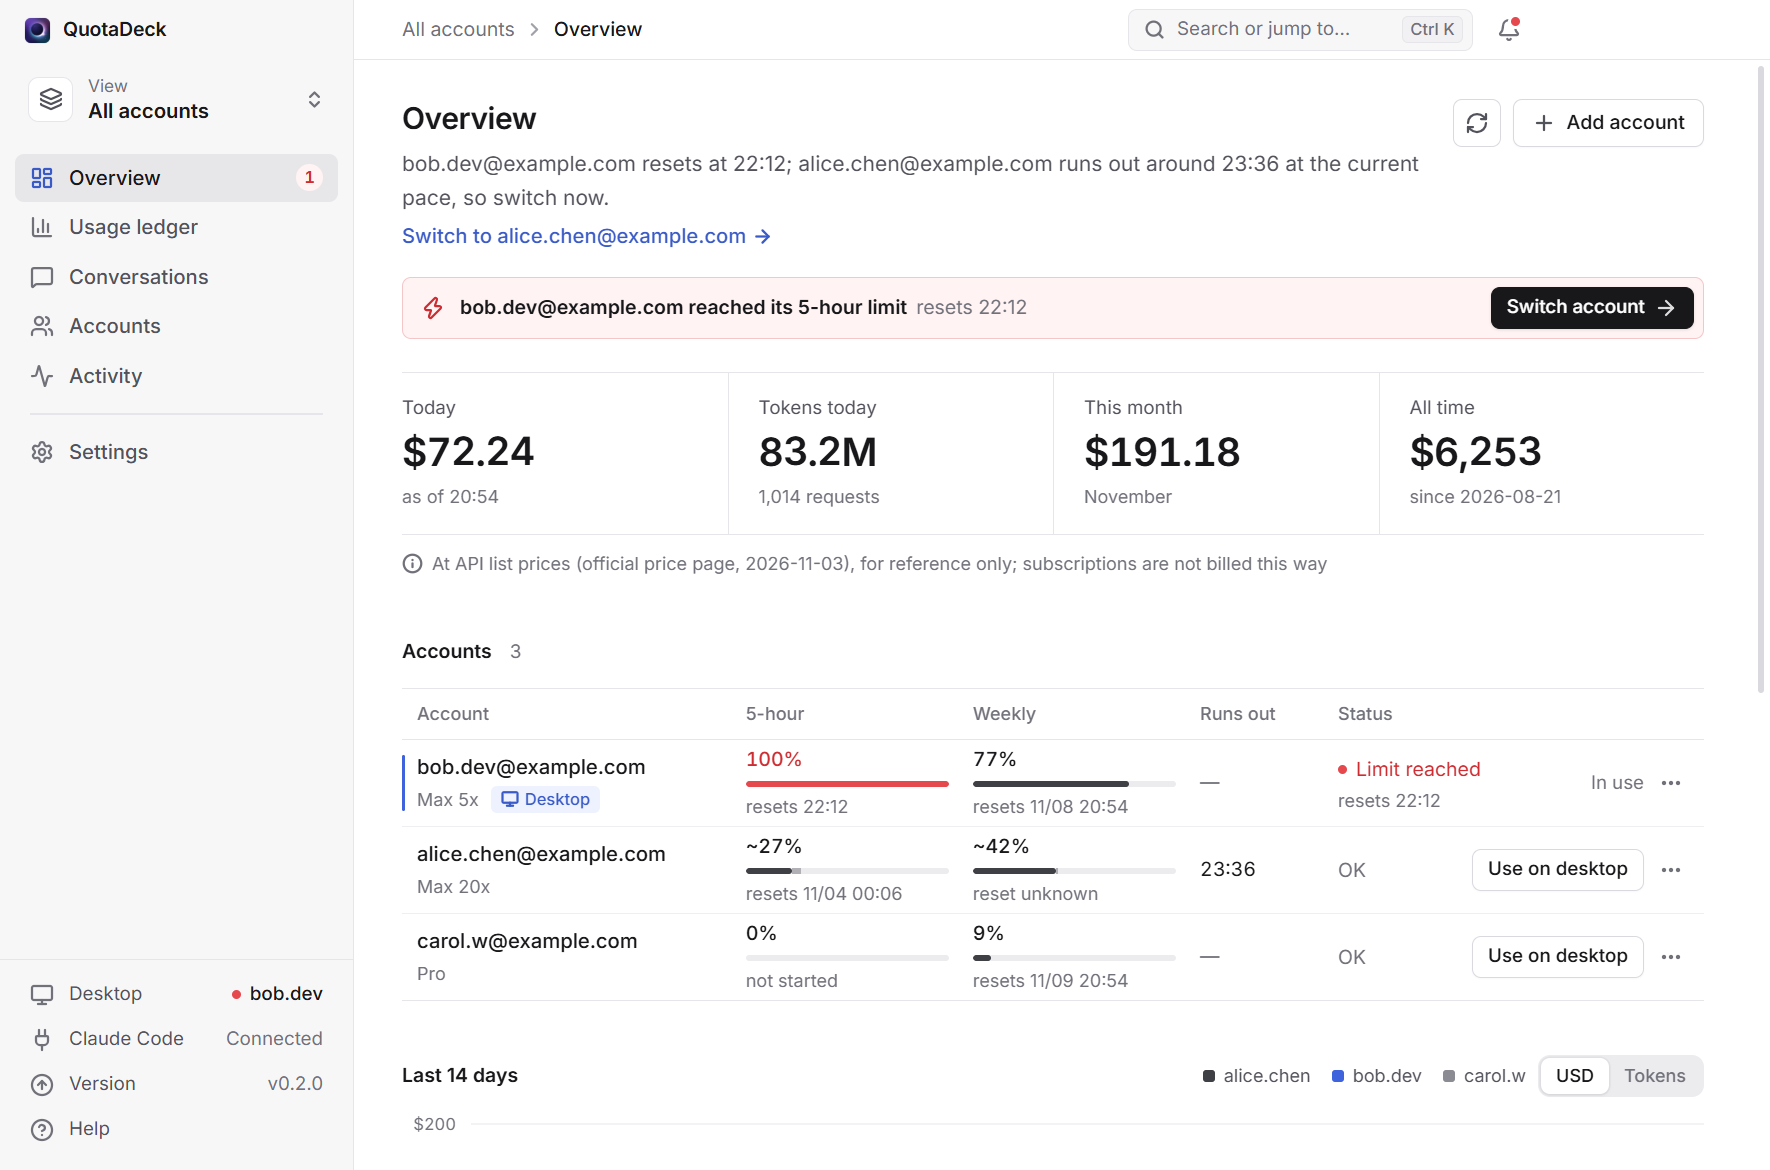
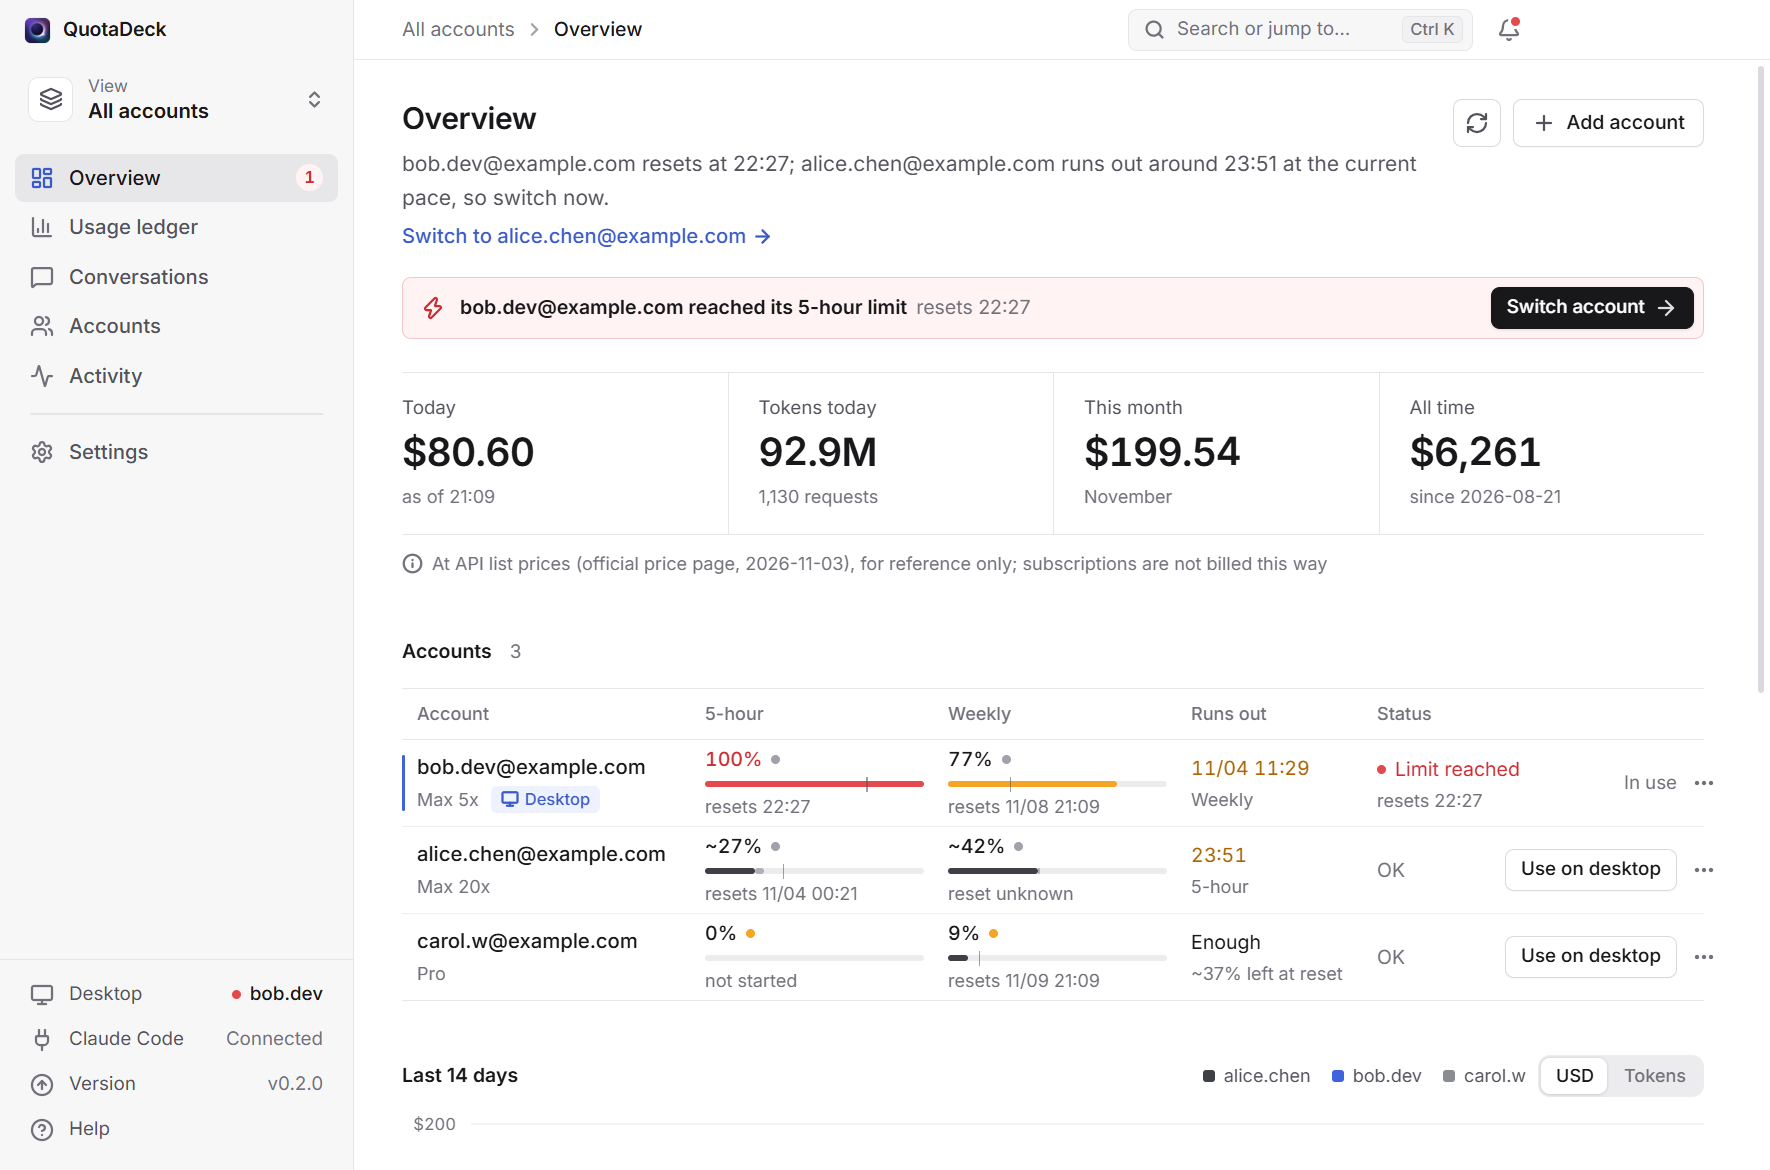
Calmer account table: three lines per meter, a source dot with the details on hover, pace in the run-out column; full detail on the accounts page

diff --git a/src/renderer/src/components/AccountTable.tsx b/src/renderer/src/components/AccountTable.tsx
@@ -8,7 +8,7 @@ import { displayName, pctLevel, planText, shownPct, statusKey } from '../util'
 import { IconFolder, IconLogin, IconMonitor, IconMore, IconPencil, IconTerminal, IconTrash } from './icons'
 import { Menu } from './Menu'
 
-const COLS = 'minmax(180px, 1.45fr) minmax(156px, 1.35fr) minmax(156px, 1.35fr) 70px 90px 128px'
+const COLS = 'minmax(176px, 1.4fr) minmax(146px, 1.25fr) minmax(146px, 1.25fr) 108px 88px 128px'
 
 function estimateTip(est: UsageEstimate | undefined, usage: UsageSnapshot | undefined, recorded: UsageWindow | undefined, t: T, clock: (ts: number) => string): string | undefined {
   if (!est) return undefined
@@ -36,12 +36,10 @@ export function sourceInfo(a: AccountView, estimated: boolean, t: T, lang: Langu
   return { text: `${src} · ${ago}`, stale, tip: stale ? t('srcStaleTip', { src, ago }) : `${src} · ${ago}` }
 }
 
-/**
- * One window of one account: the percent with its source, a thin bar with a tick at the time already gone in the
- * window, the reset time, and where the current pace leads. `compact` keeps the percent, a source dot and the bar.
- */
-export function MeterCell({ account: a, kind, tip, compact, label }: { account: AccountView; kind: 'fh' | 'sd'; tip?: string; compact?: boolean; label?: string }) {
-  const { t, lang, tz, now, state } = useApp()
+type Kind = 'fh' | 'sd'
+
+/** Everything one window of one account shows: the number, the bar, the reset, the time gone and where the pace leads. */
+function meterModel(a: AccountView, kind: Kind, t: T, lang: Language, tz: string, now: number, warnAt: number) {
   const w = kind === 'fh' ? a.usage?.fiveHour : a.usage?.sevenDay
   const estimatePct = kind === 'fh' ? a.estimate?.fiveHour : a.estimate?.sevenDay
   const estimateResetsAt = kind === 'fh' ? a.estimate?.fiveHourResetsAt : undefined
@@ -60,49 +58,86 @@ export function MeterCell({ account: a, kind, tip, compact, label }: { account: 
   const start = reset ? reset - span : undefined
   const gone = start !== undefined ? Math.min(1, Math.max(0, (now - start) / span)) : undefined
   const ahead = pct !== undefined && gone !== undefined && pct < 100 && pct - gone * 100 > 10
-  const level = pctLevel(w?.pct ?? pct, state.settings.warnAt)
+  const level = pctLevel(w?.pct ?? pct, warnAt)
   const cls = level === 'bad' ? ' bad' : level === 'warn' || ahead ? ' warn' : ''
   const extra = shown.estimated && pct !== undefined ? Math.max(0, pct - recorded) : 0
 
   // Where this pace leads; nothing is concluded in the first tenth of the window.
-  let pace: { text: string; warn: boolean } | undefined
+  let fullAt: number | undefined
+  let left: number | undefined
   if (pct !== undefined && pct < 100 && gone !== undefined && gone >= 0.1 && start !== undefined && reset) {
     const projected = pct / gone
-    const fullAt = etaAt && etaAt < reset ? etaAt : projected >= 100 && pct > 0 ? start + ((now - start) * 100) / pct : undefined
-    if (fullAt && fullAt < reset) pace = { text: t('paceFull', { clock: clock(fullAt) }), warn: true }
-    else pace = { text: t('paceLeft', { n: Math.min(100, Math.max(0, Math.round(100 - projected))) }), warn: false }
+    const at = etaAt && etaAt < reset ? etaAt : projected >= 100 && pct > 0 ? start + ((now - start) * 100) / pct : undefined
+    if (at && at < reset) fullAt = at
+    else left = Math.min(100, Math.max(0, Math.round(100 - projected)))
   }
-
+  const pace = fullAt ? { text: t('paceFull', { clock: clock(fullAt) }), warn: true } : left !== undefined ? { text: t('paceLeft', { n: left }), warn: false } : undefined
   const resetLabel = reset ? t('resetAt', { clock: clock(reset) }) : w && w.pct <= 0 ? t('notStartedShort') : w ? t('resetUnknownShort') : ''
-  const src = sourceInfo(a, shown.estimated, t, lang, now)
-  const showTip = shown.estimated && tip && !compact
+  return { w, shown, pct, recorded, extra, reset, gone, level, cls, fullAt, left, pace, resetLabel, src: sourceInfo(a, shown.estimated, t, lang, now) }
+}
+
+/**
+ * One window of one account. "table": percent with a source dot, the bar with a tick at the time gone, the reset.
+ * "detail" adds the source text and the pace sentence; "compact" keeps the percent, the dot and the bar.
+ */
+export function MeterCell({ account: a, kind, tip, mode = 'table', label }: { account: AccountView; kind: Kind; tip?: string; mode?: 'table' | 'detail' | 'compact'; label?: string }) {
+  const { t, lang, tz, now, state } = useApp()
+  const m = meterModel(a, kind, t, lang, tz, now, state.settings.warnAt)
+  // In the table the dot carries every explanation (source, age, how the estimate is made); one tooltip at a time.
+  const showTip = m.shown.estimated && tip && mode === 'detail'
+  const dotTip = [m.src?.tip, m.shown.estimated && mode === 'table' ? tip : undefined].filter(Boolean).join('\n')
   return (
-    <div className={`meter-cell${showTip ? ' has-tip tip-start' : ''}`} data-tip={showTip ? tip : undefined} tabIndex={showTip ? 0 : undefined}>
+    <div className={`meter-cell${showTip ? ' has-tip tip-start' : ''}`} data-tip={showTip ? tip : undefined}>
       <div className="meter-top">
         {label && <span className="meter-label">{label}</span>}
-        <span className={`meter-pct${pct === undefined ? ' na' : level === 'bad' ? ' bad' : level === 'warn' ? ' warn' : ''}`}>
-          {pct === undefined ? '—' : `${shown.estimated ? t('approx') : ''}${Math.round(pct)}%`}
+        <span className={`meter-pct${m.pct === undefined ? ' na' : m.level === 'bad' ? ' bad' : m.level === 'warn' ? ' warn' : ''}`}>
+          {m.pct === undefined ? '—' : `${m.shown.estimated ? t('approx') : ''}${Math.round(m.pct)}%`}
         </span>
-        {src &&
-          (compact ? (
-            <span className={`src-dot${src.stale ? ' stale' : ''}`} title={src.tip} />
-          ) : (
-            <span className={`meter-src${src.stale ? ' stale' : ''}`} title={src.tip}>
-              {src.stale ? t('srcStale') : src.text}
+        {m.src &&
+          (mode === 'detail' ? (
+            <span className={`meter-src${m.src.stale ? ' stale' : ''}`} title={m.src.tip}>
+              {m.src.stale ? `${t('srcStale')} · ${m.src.text}` : m.src.text}
             </span>
+          ) : (
+            <span className={`src-dot has-tip${m.src.stale ? ' stale' : ''}`} data-tip={dotTip} tabIndex={0} aria-label={dotTip} />
           ))}
       </div>
       <div className="meter" aria-hidden="true">
-        {w && <div className={`meter-fill${cls}`} style={{ width: `${recorded}%` }} />}
-        {extra > 0 && <div className={`meter-est${cls}`} style={{ left: `${recorded}%`, width: `${extra}%` }} />}
-        {gone !== undefined && gone > 0 && gone < 1 && <span className="meter-tick" style={{ left: `${gone * 100}%` }} />}
+        {m.w && <div className={`meter-fill${m.cls}`} style={{ width: `${m.recorded}%` }} />}
+        {m.extra > 0 && <div className={`meter-est${m.cls}`} style={{ left: `${m.recorded}%`, width: `${m.extra}%` }} />}
+        {m.gone !== undefined && m.gone > 0 && m.gone < 1 && <span className="meter-tick" style={{ left: `${m.gone * 100}%` }} />}
       </div>
-      {!compact && resetLabel && (
-        <span className="meter-reset" title={reset ? formatIn(reset, lang, now) : undefined}>
-          {resetLabel}
+      {mode !== 'compact' && m.resetLabel && (
+        <span className="meter-reset" title={m.reset ? formatIn(m.reset, lang, now) : undefined}>
+          {m.resetLabel}
         </span>
       )}
-      {!compact && pace && <span className={`meter-pace${pace.warn ? ' warn' : ''}`}>{pace.text}</span>}
+      {mode === 'detail' && m.pace && <span className={`meter-pace${m.pace.warn ? ' warn' : ''}`}>{m.pace.text}</span>}
+    </div>
+  )
+}
+
+/** The run-out column: the earliest window that fills before it resets, else how much is left at reset. */
+function PaceCell({ account: a }: { account: AccountView }) {
+  const { t, lang, tz, now, state } = useApp()
+  const fh = meterModel(a, 'fh', t, lang, tz, now, state.settings.warnAt)
+  const sd = meterModel(a, 'sd', t, lang, tz, now, state.settings.warnAt)
+  const full = [fh.fullAt ? { at: fh.fullAt, key: 'fiveHour' as const } : undefined, sd.fullAt ? { at: sd.fullAt, key: 'sevenDay' as const } : undefined]
+    .filter((x): x is { at: number; key: 'fiveHour' | 'sevenDay' } => !!x)
+    .sort((x, y) => x.at - y.at)[0]
+  if (full)
+    return (
+      <div className="dt-cell">
+        <span className="dt-num pace-full">{formatClock(full.at, tz, lang, now)}</span>
+        <div className="dt-sub">{t(full.key)}</div>
+      </div>
+    )
+  const lefts = [fh.left, sd.left].filter((v): v is number => v !== undefined)
+  if (lefts.length === 0) return <span className="dt-num dim">—</span>
+  return (
+    <div className="dt-cell">
+      <span className="dt-num">{t('paceEnough')}</span>
+      <div className="dt-sub">{t('paceLeftShort', { n: Math.min(...lefts) })}</div>
     </div>
   )
 }
@@ -114,7 +149,8 @@ export function statusView(a: AccountView, t: T, clock: (ts: number) => string):
   return { text: t(statusKey(a.status) as TKey), tone: '' }
 }
 
-export function AccountTable({ accounts, onScope }: { accounts: AccountView[]; onScope?: (id: string) => void }) {
+/** `detailed` (the accounts page) also shows where each number comes from and the full pace sentence. */
+export function AccountTable({ accounts, onScope, detailed }: { accounts: AccountView[]; onScope?: (id: string) => void; detailed?: boolean }) {
   const { t, lang, tz, now, openDialog, api, toast } = useApp()
   const clock = (ts: number) => formatClock(ts, tz, lang, now)
   return (
@@ -132,7 +168,6 @@ export function AccountTable({ accounts, onScope }: { accounts: AccountView[]; o
           const u = a.usage
           const est = a.estimate
           const st = statusView(a, t, clock)
-          const eta = a.eta?.fiveHourFullAt ?? a.eta?.sevenDayFullAt
           const menu = [
             { label: t('actContinueTerminal'), icon: <IconTerminal />, disabled: !a.cliConfigDir, onSelect: () => openDialog({ type: 'switch', mode: 'terminal', toAccountId: a.id }) },
             { label: t('menuEdit'), icon: <IconPencil />, onSelect: () => openDialog({ type: 'edit', accountId: a.id }) },
@@ -165,11 +200,9 @@ export function AccountTable({ accounts, onScope }: { accounts: AccountView[]; o
                   )}
                 </div>
               </div>
-              <MeterCell account={a} kind="fh" tip={estimateTip(est, u, u?.fiveHour, t, clock)} />
-              <MeterCell account={a} kind="sd" tip={estimateTip(est, u, u?.sevenDay, t, clock)} />
-              <span className={`dt-num${eta ? '' : ' dim'}`} title={a.eta?.fiveHourPerHour ? `${Math.round(a.eta.fiveHourPerHour)}%/h` : undefined}>
-                {eta ? clock(eta) : '—'}
-              </span>
+              <MeterCell account={a} kind="fh" mode={detailed ? 'detail' : 'table'} tip={estimateTip(est, u, u?.fiveHour, t, clock)} />
+              <MeterCell account={a} kind="sd" mode={detailed ? 'detail' : 'table'} tip={estimateTip(est, u, u?.sevenDay, t, clock)} />
+              <PaceCell account={a} />
               <div className="dt-cell">
                 <span className={`status${st.tone ? ` ${st.tone}` : ''}`}>
                   {st.tone && <span className={`dot ${st.tone}`} />}

diff --git a/src/renderer/src/i18n.ts b/src/renderer/src/i18n.ts
@@ -76,6 +76,8 @@ const zh = {
   srcStaleTip: '{src}最后一次更新在{ago}。桌面端用着的时候大约每 15 分钟记一次，这么久没更新，可能是桌面端没开，或者这个号最近没用',
   paceFull: '按这个节奏约 {clock} 用满',
   paceLeft: '按这个节奏，恢复时还剩约 {n}%',
+  paceEnough: '够用',
+  paceLeftShort: '恢复时剩约 {n}%',
   resetUnknownShort: '恢复时间未知',
   notStartedShort: '未开始',
   secUsage14: '近 14 天用量',
@@ -672,6 +674,8 @@ const en: Dict = {
   srcStaleTip: 'The {src} was last updated {ago}. The desktop app records about every 15 minutes while it is in use; this long without an update usually means the app is closed or the account was not used',
   paceFull: 'at this pace, full around {clock}',
   paceLeft: 'at this pace, about {n}% left at reset',
+  paceEnough: 'Enough',
+  paceLeftShort: '~{n}% left at reset',
   resetUnknownShort: 'reset unknown',
   notStartedShort: 'not started',
   secUsage14: 'Last 14 days',

diff --git a/src/main/screenshots.ts b/src/main/screenshots.ts
@@ -94,7 +94,9 @@ export async function captureScreenshots(win: BrowserWindow, backend: Backend, o
       fs.writeFileSync(path.join(outDir, `splash-${dark ? 'dark' : 'light'}.png`), png)
     }
   }
-  const list = mode === 'live' ? LIVE_SHOTS : review ? REVIEW_SHOTS : README_SHOTS
+  const only = process.env.QD_ONLY?.split(',').map((x) => x.trim())
+  // QD_ONLY=name,name retakes just those pictures.
+  const list = (mode === 'live' ? LIVE_SHOTS : review ? REVIEW_SHOTS : README_SHOTS).filter((s) => !only || only.includes(s.name))
   for (const shot of list) {
     if (shot.theme) nativeTheme.themeSource = shot.theme
     const patch: Partial<Settings> = {

diff --git a/src/renderer/src/dialogs/SwitchDialog.tsx b/src/renderer/src/dialogs/SwitchDialog.tsx
@@ -229,8 +229,8 @@ export function SwitchDialog({
                     </span>
                   </span>
                   <span className="pick-meters">
-                    <MeterCell compact label={t('fiveHour')} account={a} kind="fh" />
-                    <MeterCell compact label={t('sevenDay')} account={a} kind="sd" />
+                    <MeterCell mode="compact" label={t('fiveHour')} account={a} kind="fh" />
+                    <MeterCell mode="compact" label={t('sevenDay')} account={a} kind="sd" />
                   </span>
                 </button>
               ))}

diff --git a/src/renderer/src/pages/TrayView.tsx b/src/renderer/src/pages/TrayView.tsx
@@ -76,8 +76,8 @@ export function TrayView({ api }: { api: QuotaDeckApi }) {
               <div className="tray-name ellipsis" title={displayName(a)}>
                 {shortName(a)}
               </div>
-              <MeterCell compact account={a} kind="fh" />
-              <MeterCell compact account={a} kind="sd" />
+              <MeterCell mode="compact" account={a} kind="fh" />
+              <MeterCell mode="compact" account={a} kind="sd" />
             </div>
           ))}
         </div>

diff --git a/src/renderer/src/styles/views.css b/src/renderer/src/styles/views.css
@@ -1282,8 +1282,9 @@
   color: var(--warn-text);
 }
 .src-dot {
-  width: 5px;
-  height: 5px;
+  position: relative;
+  width: 6px;
+  height: 6px;
   flex: none;
   align-self: center;
   border-radius: 50%;
@@ -1315,4 +1316,14 @@
 }
 .meter-pace.warn {
   color: var(--warn-text);
+}
+
+.src-dot.has-tip::after {
+  bottom: calc(100% + 10px);
+}
+.pace-full {
+  color: var(--warn-text);
+}
+.meter-cell .meter-reset {
+  white-space: nowrap;
 }

diff --git a/src/renderer/src/pages/Accounts.tsx b/src/renderer/src/pages/Accounts.tsx
@@ -22,7 +22,7 @@ export function Accounts() {
           </button>
         </div>
       </header>
-      <AccountTable accounts={accounts} />
+      <AccountTable accounts={accounts} detailed />
     </div>
   )
 }
